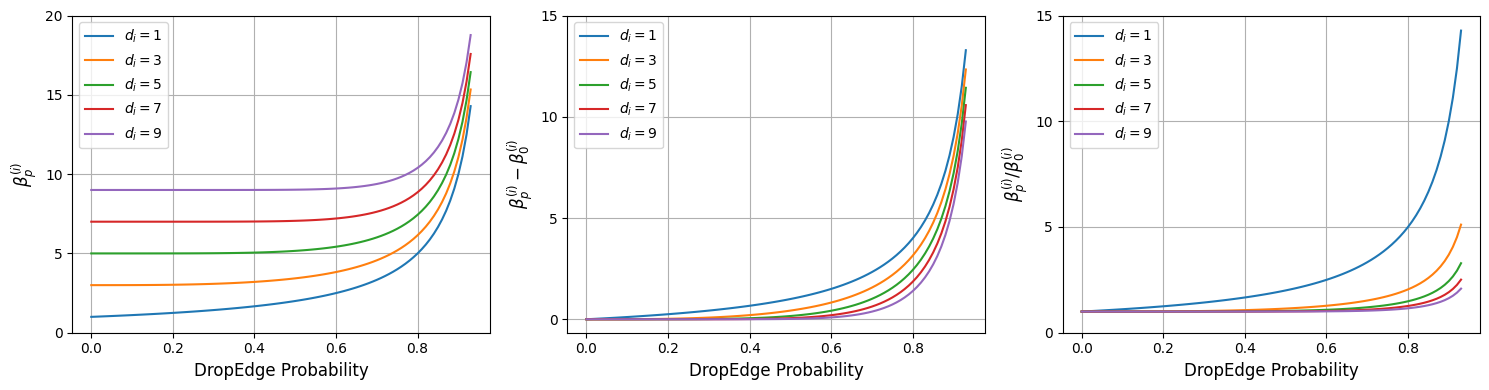
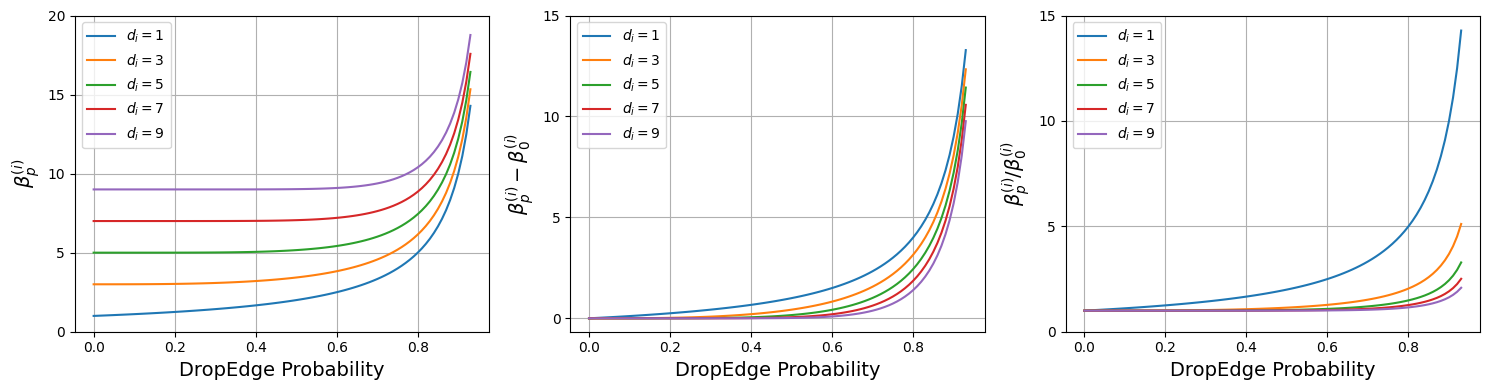
a lot more plots

diff --git a/signal_propagation/log.py b/signal_propagation/log.py
@@ -12,8 +12,8 @@ from model import Model as Base
 from sensitivity.utils import compute_shortest_distances, compute_commute_times
 
 
-GRAPHS_SAMPLED = 200
-NUM_VERTICES_SAMPLED = 10
+GRAPHS_SAMPLES = 200
+NUM_VERTICES_SAMPLES = 10
 DROPEDGE_SAMPLES = 10
 
 
@@ -36,17 +36,19 @@ def initialize_architecture(config):
     return model
 
 
-def process_graph_datum(datum, config, Ps):
+def process_graph_datum(datum, config, Ps, use_commute_times=False):
 
     distances = compute_shortest_distances(datum.edge_index)
-    resistance = compute_commute_times(datum.edge_index) / datum.edge_index.size(1)
+    ct_or_er = compute_commute_times(datum.edge_index)
+    if not use_commute_times:
+        ct_or_er =  ct_or_er / datum.edge_index.size(1)
     
-    sources = np.random.choice(datum.num_nodes, min(NUM_VERTICES_SAMPLED, datum.num_nodes), replace=False)
+    sources = np.random.choice(datum.num_nodes, min(NUM_VERTICES_SAMPLES, datum.num_nodes), replace=False)
     pairs_runaway = {P: list() for P in Ps}
 
     for source in sources:
 
-        total_resistance = torch.sum(resistance[source])
+        total_ct_or_er = torch.sum(ct_or_er[source])
         x = torch.zeros_like(datum.x)
         x[source] = torch.randn_like(datum.x[source])
         x[source] = x[source].softmax(dim=-1)
@@ -66,7 +68,7 @@ def process_graph_datum(datum, config, Ps):
             out = torch.nan_to_num(out, nan=0.0)
             propagation_distance = (out*distances[:, [source]]).sum(dim=0).mean() / distances[source].max()
 
-            pairs_runaway[P].append((total_resistance, propagation_distance))
+            pairs_runaway[P].append((total_ct_or_er, propagation_distance))
 
     # averaging over sampled source nodes
     pairs_runaway = {P: tuple(np.mean(pairs_runaway[P], axis=0)) for P in pairs_runaway}
@@ -75,6 +77,8 @@ def process_graph_datum(datum, config, Ps):
 
 
 def main(args):
+
+    global GRAPHS_SAMPLES
 
     dataset = TUDataset(root='./data/TUDataset', name=args.dataset, use_node_attr=True).shuffle()
     args.dataset = args.dataset.split('_')[0]
@@ -86,15 +90,18 @@ def main(args):
     Ps = np.arange(0.0, 1.0, 0.1)
     pairs = {P: list() for P in Ps}
 
-    for datum in tqdm(dataset[:GRAPHS_SAMPLED]):
+    for datum in tqdm(dataset):
+        if not GRAPHS_SAMPLES:
+            break
         try:
-            arch_runaway = process_graph_datum(datum, config, Ps)
+            arch_runaway = process_graph_datum(datum, config, Ps, args.vs == 'Commute Time')
             for P in arch_runaway:
                 pairs[P].append(arch_runaway[P])
+            GRAPHS_SAMPLES -= 1
         except AssertionError:
             continue
 
-    fn = f'./results/signal-propagation/{args.dataset}.pkl'
+    fn = f'./results/signal-propagation/{args.vs}/{args.dataset}.pkl'
     os.makedirs(os.path.dirname(fn), exist_ok=True)
     with open(fn, 'wb') as f:
         pickle.dump(pairs, f, protocol=pickle.HIGHEST_PROTOCOL)
@@ -103,7 +110,8 @@ def main(args):
 if __name__ == '__main__':
 
     parser = argparse.ArgumentParser()
-    parser.add_argument('--dataset', type=str, choices=['Proteins', 'MUTAG', 'PTC_MR'])
+    parser.add_argument('--dataset', type=str, required=True, choices=['Proteins', 'MUTAG', 'PTC_MR'])
+    parser.add_argument('--vs', type=str, required=True, choices=['Total Resistance', 'Commute Time'])
     args = parser.parse_args()
     
     main(args)

diff --git a/signal_propagation/corr.py b/signal_propagation/corr.py
@@ -5,35 +5,46 @@ import pickle
 import numpy as np
 from scipy.stats import wilcoxon
 import matplotlib.pyplot as plt
-import seaborn as sns
+from mpl_toolkits.axes_grid1 import make_axes_locatable
 
 
 def main(args):
 
     args.dataset = args.dataset.split('_')[0]
 
-    with open(f'./results/signal-propagation/{args.dataset}.pkl', 'rb') as f:
+    with open(f'./results/signal-propagation/{args.vs}/{args.dataset}.pkl', 'rb') as f:
         pairs = pickle.load(f)
 
     Ps = np.arange(0.0, 1.0, 0.1)
     data = np.array([list(zip(*pairs[P]))[1] for P in Ps])
-    
-    corr = wilcoxon(np.expand_dims(data, 0) - np.expand_dims(data, 1), alternative='less', zero_method='zsplit', axis=2)
-    
-    fig, ax = plt.subplots(1, 1)
-    sns.heatmap(corr.statistic, cmap='coolwarm', ax=ax)
-    ax.set_title(args.dataset, fontsize=14)
-    ax.xaxis.tick_top()
+    corr = wilcoxon(np.expand_dims(data, 0) - np.expand_dims(data, 1), alternative='greater', zero_method='zsplit', axis=2)
+
+    Ps = list(map(lambda x: round(x, 1), Ps))
+    fig, ax = plt.subplots(1, 1, figsize=(5.2, 4.8))
+    divider = make_axes_locatable(ax)
+    cax = divider.append_axes('right', size='5%', pad=0.1)
+
+    im = ax.imshow(corr.statistic, cmap='coolwarm')
+    cbar = fig.colorbar(im, cax=cax, orientation='vertical')
+    cbar.formatter.set_powerlimits((0, 0))
+    ax.scatter(*np.where(corr.pvalue<0.05), c='green', s=50)
+
+    ax.set_xticks(np.arange(len(Ps))); ax.set_xticklabels(Ps)
+    ax.set_yticks(np.arange(len(Ps))); ax.set_yticklabels(Ps)
+    ax.set_title(args.dataset, fontsize=16)
+    ax.set_xlabel(r'$p_1$', fontsize=14)
+    ax.set_ylabel(r'$p_2$', fontsize=14)
     fig.tight_layout()
 
-    fn = f'assets/signal-propagation/rank-correlation/{args.dataset}.png'
+    fn = f'assets/signal-propagation/{args.vs}/rank-correlation/{args.dataset}.png'
     os.makedirs(os.path.dirname(fn), exist_ok=True)
     plt.savefig(fn)
 
 if __name__ == '__main__':
 
     parser = argparse.ArgumentParser()
-    parser.add_argument('--dataset', type=str, choices=['Proteins', 'MUTAG', 'PTC_MR'])
+    parser.add_argument('--dataset', type=str, required=True, choices=['Proteins', 'MUTAG', 'PTC_MR'])
+    parser.add_argument('--vs', type=str, required=True, choices=['Total Resistance', 'Commute Time'])
     args = parser.parse_args()
     
     main(args)

diff --git a/signal_propagation/plot.py b/signal_propagation/plot.py
@@ -25,7 +25,7 @@ def main(args):
 
     args.dataset = args.dataset.split('_')[0]
 
-    with open(f'./results/signal-propagation/{args.dataset}.pkl', 'rb') as f:
+    with open(f"./results/signal-propagation/{args.vs}/{args.dataset}.pkl", 'rb') as f:
         pairs = pickle.load(f)
 
     Ps = np.arange(0.0, 1.0, 0.1)
@@ -38,21 +38,23 @@ def main(args):
         data = (data - data.min(axis=1, keepdims=True)) / (data.max(axis=1, keepdims=True) - data.min(axis=1, keepdims=True))
         smooth_plot(*data, ax=ax, label=f'P={P:.1f}', halflife=args.halflife)
 
-    ax.set_xlabel('Effective Resistance', fontsize=12)
-    ax.set_ylabel('Signal Propagation', fontsize=12)
-    ax.set_title(args.dataset, fontsize=14)
+    ax.set_xlabel(args.vs, fontsize=14)
+    ax.set_ylabel('Signal Propagation', fontsize=14)
+    ax.set_title(args.dataset, fontsize=16)
     ax.grid()
     ax.legend()
 
-    fn = f'assets/signal-propagation/{args.dataset}.png'
+    fig.tight_layout()
+
+    fn = f'assets/signal-propagation/{args.vs}/{args.dataset}.png'
     os.makedirs(os.path.dirname(fn), exist_ok=True)
     plt.savefig(fn)
-    plt.show()
 
 if __name__ == '__main__':
 
     parser = argparse.ArgumentParser()
-    parser.add_argument('--dataset', type=str, choices=['Proteins', 'MUTAG', 'PTC_MR'])
+    parser.add_argument('--dataset', type=str, required=True, choices=['Proteins', 'MUTAG', 'PTC_MR'])
+    parser.add_argument('--vs', type=str, required=True, choices=['Total Resistance', 'Commute Time'])
     parser.add_argument('--halflife', type=int, default=20)
     args = parser.parse_args()
     

diff --git a/plots/metrics.py b/plots/metrics.py
@@ -66,8 +66,8 @@ for gnn, ax in zip(args.gnns, axs):
             means.append(mean); lower.append(mean-std); upper.append(mean+std)
         ax.plot(ps, means, label=f'L = {depth}')
         # ax.fill_between(ps, lower, upper, alpha=0.2)
-    ax.set_xlabel('DropEdge Probability', fontsize=12)
-    ax.set_ylabel(f'Training {args.metric}', fontsize=12)
+    ax.set_xlabel('DropEdge Probability', fontsize=14)
+    ax.set_ylabel(f'Training {args.metric}', fontsize=14)
     ax.set_title(gnn, fontsize=14)
     ax.grid()
 
@@ -92,8 +92,8 @@ for gnn, ax in zip(args.gnns, axs):
             means.append(mean); lower.append(mean-std); upper.append(mean+std)
         ax.plot(ps, means, label=f'L = {depth}')
         # ax.fill_between(ps, lower, upper, alpha=0.2)
-    ax.set_xlabel('DropEdge Probability', fontsize=12)
-    ax.set_ylabel(f'Testing {args.metric}', fontsize=12)
+    ax.set_xlabel('DropEdge Probability', fontsize=14)
+    ax.set_ylabel(f'Testing {args.metric}', fontsize=14)
     ax.set_title(gnn, fontsize=14)
     ax.grid()
 
@@ -118,8 +118,8 @@ for gnn, ax in zip(args.gnns, axs):
             means.append(mean); lower.append(mean-std); upper.append(mean+std)
         ax.plot(ps, means, label=f'L = {depth}')
         # ax.fill_between(ps, lower, upper, alpha=0.2)
-    ax.set_xlabel('DropEdge Probability', fontsize=12)
-    ax.set_ylabel(f'Generalization Gap in {args.metric}', fontsize=12)
+    ax.set_xlabel('DropEdge Probability', fontsize=14)
+    ax.set_ylabel(f'Generalization Gap in {args.metric}', fontsize=14)
     ax.set_title(gnn, fontsize=14)
     ax.grid()
 

diff --git a/plots/beta/i.py b/plots/beta/i.py
@@ -14,8 +14,8 @@ for degree, y in zip(degrees, ys):
     ax.plot(Ps, y, label=rf'$d_i = {degree}$')
 
 ax.set_yticks(yticks, yticks)
-ax.set_xlabel('DropEdge Probability', fontsize=12)
-ax.set_ylabel(r'$\beta_p^{(i)}$', fontsize=12)
+ax.set_xlabel('DropEdge Probability', fontsize=14)
+ax.set_ylabel(r'$\beta_p^{(i)}$', fontsize=14)
 ax.grid()
 ax.legend()
 
@@ -25,8 +25,8 @@ for degree, y in zip(degrees, ys-degrees[:,None]):
 
 yticks = yticks[:-1]
 ax.set_yticks(yticks, yticks)
-ax.set_xlabel('DropEdge Probability', fontsize=12)
-ax.set_ylabel(r'$\beta_p^{(i)}-\beta_0^{(i)}$', fontsize=12)
+ax.set_xlabel('DropEdge Probability', fontsize=14)
+ax.set_ylabel(r'$\beta_p^{(i)}-\beta_0^{(i)}$', fontsize=14)
 ax.grid()
 ax.legend()
 
@@ -35,8 +35,8 @@ for degree, y in zip(degrees, ys/degrees[:,None]):
     ax.plot(Ps, y, label=rf'$d_i = {degree}$')
 
 ax.set_yticks(yticks, yticks)
-ax.set_xlabel('DropEdge Probability', fontsize=12)
-ax.set_ylabel(r'$\beta_p^{(i)}/\beta_0^{(i)}$', fontsize=12)
+ax.set_xlabel('DropEdge Probability', fontsize=14)
+ax.set_ylabel(r'$\beta_p^{(i)}/\beta_0^{(i)}$', fontsize=14)
 ax.grid()
 ax.legend()
 

diff --git a/plots/beta/dist.py b/plots/beta/dist.py
@@ -6,9 +6,9 @@ from torch_geometric.utils import to_scipy_sparse_matrix, to_undirected, degree
 from scipy.sparse.csgraph import connected_components
 import matplotlib.pyplot as plt
 
-datasets = ('Proteins',)     # 'MUTAG')
+datasets = ('Proteins', 'MUTAG') # , 'PTC_MR')
 Ps = (0.2, 0.4, 0.6, 0.8)
-fig, axs = plt.subplots(1, len(datasets), figsize=(6*len(datasets), 4))
+fig, axs = plt.subplots(1, len(datasets), figsize=(6.4*len(datasets), 4.8), sharey=True)
 if not hasattr(axs, '__len__'): axs = (axs,)
 
 for dataset_name, ax in zip(datasets, axs):
@@ -37,9 +37,9 @@ for dataset_name, ax in zip(datasets, axs):
         bin_mids = (bin_edges[:-1] + bin_edges[1:]) / 2
         ax.bar(bin_mids, counts/len(ratio), width=bin_edges.diff(), label=f'P = {P}', alpha=0.8)
 
-    ax.set_title(dataset_name, fontsize=14)
-    ax.set_xlabel(r'$\beta_p/\beta_0$', fontsize=12)
-    ax.set_ylabel('Proportion of Graphs', fontsize=12)
+    ax.set_title(dataset_name.split('_')[0], fontsize=16)
+    ax.set_xlabel(r'$\beta_p/\beta_0$', fontsize=14)
+    axs[0].set_ylabel('Proportion of Graphs', fontsize=14)
 
     ax.grid()
     ax.legend()

diff --git a/plots/linear_gcn/asymmetric.py b/plots/linear_gcn/asymmetric.py
@@ -69,8 +69,8 @@ for p in ps:
     ax.plot(x, y, label=f'P = {p:.1f}')
 
 ax.set_yscale('log')
-ax.set_xlabel('Shortest Distance', fontsize=12)
-ax.set_ylabel(rf'$\left(\mathbb{{E}}\left[\hat{{A}}^{{asym}}\right]^{{{L}}}\right)_{{ij}}$', fontsize=12)
+ax.set_xlabel('Shortest Distance', fontsize=14)
+ax.set_ylabel(rf'$\left(\mathbb{{E}}\left[\hat{{A}}^{{asym}}\right]^{{{L}}}\right)_{{ij}}$', fontsize=14)
 ax.set_title(args.dataset, fontsize=14)
 ax.grid()
 

diff --git a/plots/linear_gcn/asymmetric_emp.py b/plots/linear_gcn/asymmetric_emp.py
@@ -76,8 +76,8 @@ for p in ps:
     ax.plot(x, y, label=f'P = {p:.1f}')
 
 ax.set_yscale('log')
-ax.set_xlabel('Shortest Distance', fontsize=12)
-ax.set_ylabel(rf'$\left(\mathbb{{E}}\left[\hat{{A}}^{{asym}}\right]^{{{L}}}\right)_{{ij}}$', fontsize=12)
+ax.set_xlabel('Shortest Distance', fontsize=14)
+ax.set_ylabel(rf'$\left(\mathbb{{E}}\left[\hat{{A}}^{{asym}}\right]^{{{L}}}\right)_{{ij}}$', fontsize=14)
 ax.set_title(args.dataset, fontsize=14)
 ax.grid()
 

diff --git a/plots/linear_gcn/symmetric.py b/plots/linear_gcn/symmetric.py
@@ -79,8 +79,8 @@ for p in ps:
     ax.plot(x, y, label=f'P = {p:.1f}')
 
 ax.set_yscale('log')
-ax.set_xlabel('Shortest Distance', fontsize=12)
-ax.set_ylabel(rf'$\left(\mathbb{{E}}\left[\hat{{A}}^{{sym}}\right]^{{{L}}}\right)_{{ij}}$', fontsize=12)
+ax.set_xlabel('Shortest Distance', fontsize=14)
+ax.set_ylabel(rf'$\left(\mathbb{{E}}\left[\hat{{A}}^{{sym}}\right]^{{{L}}}\right)_{{ij}}$', fontsize=14)
 ax.set_title(args.dataset, fontsize=14)
 ax.grid()
 

diff --git a/sensitivity/plot/sensitivity/jac_norm_vs_ct.py b/sensitivity/plot/sensitivity/jac_norm_vs_ct.py
@@ -77,8 +77,8 @@ for trained in ('untrained', 'trained'):
 
     ax.set_xlim(xmax=min(600, xlim))
     ax.set_ylim(ymin=1e-6)
-    ax.set_xlabel('Commute Times', fontsize=12)
-    ax.set_ylabel('Mean Sensitivity', fontsize=12)
+    ax.set_xlabel('Commute Times', fontsize=14)
+    ax.set_ylabel('Mean Sensitivity', fontsize=14)
     ax.set_title(args.dataset, fontsize=14)
     ax.set_yscale('log')
     ax.grid()

diff --git a/plots/linear_gcn/synthetic.py b/plots/linear_gcn/synthetic.py
@@ -33,8 +33,8 @@ ys = torch.stack(ys, dim=0).transpose(0, 1)
 ax.plot(ps, ys[0], label=r'$i = 0, 2$')
 ax.plot(ps, ys[1], label=r'$i = 1$')
 
-ax.set_xlabel('DropEdge Probability', fontsize=12)
-ax.set_ylabel(r'$(P^2)_{ii}$', fontsize=12)
+ax.set_xlabel('DropEdge Probability', fontsize=14)
+ax.set_ylabel(r'$(P^2)_{ii}$', fontsize=14)
 ax.grid()
 ax.legend()
 fig.tight_layout()

diff --git a/assets/to-overleaf.py b/assets/to-overleaf.py
@@ -30,9 +30,13 @@ import shutil
 
 ##########
 
-dirs = os.listdir('.')
+import argparse
 
-for dir in dirs:
+parser = argparse.ArgumentParser()
+parser.add_argument('--dirs', nargs='+', type=str, required=True)
+args = parser.parse_args()
+
+for dir in args.dirs:
 
     if dir in ('__pycache__', 'overleaf'):
         continue
